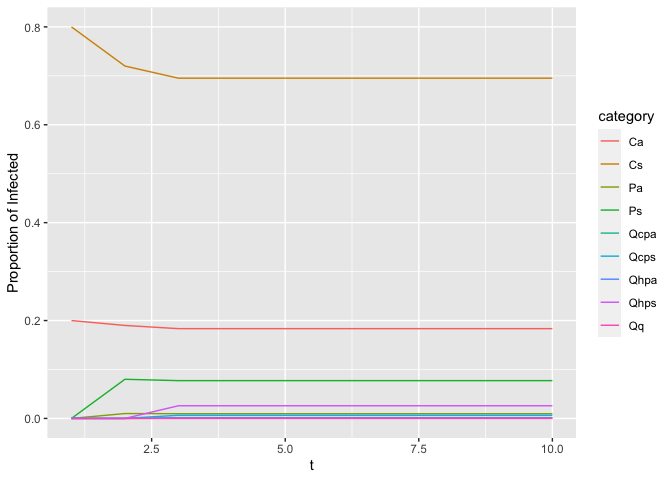
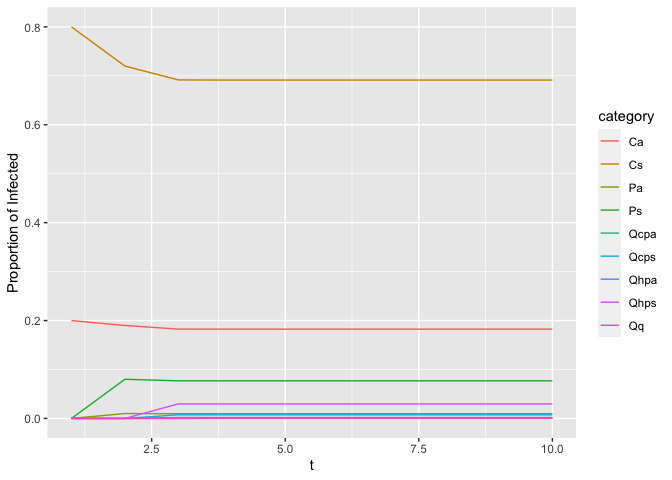
udpate readme

diff --git a/README.md b/README.md
@@ -39,9 +39,9 @@ pqc <- get_pqc_equilibrium(init = c(Ps = 0, Pa = 0, Qcps = 0, Qhps = 0,
                              Ca = 0.2))
 pqc
 #>           Ps           Pa         Qcps         Qhps         Qcpa         Qhpa 
-#> 7.724739e-02 9.655923e-03 6.475167e-03 2.590067e-02 4.046979e-04 1.618792e-03 
+#> 0.0768155690 0.0096019461 0.0074079812 0.0296319249 0.0004629988 0.0018519953 
 #>           Qq           Cs           Ca 
-#> 8.336454e-06 6.952265e-01 1.834625e-01
+#> 0.0004504876 0.6913401207 0.1824369763
 ```
 
 From this, we can calculate the proportion quarantined using the
@@ -49,14 +49,14 @@ From this, we can calculate the proportion quarantined using the
 
 ``` r
 get_prop_quarantined(pqc)
-#> [1] 0.03440766
+#> [1] 0.03980539
 ```
 
 We can then calculate the \(R_{effective}\) under this scenario.
 
 ``` r
 get_r_effective(pqc)
-#> [1] 2.347541
+#> [1] 2.361799
 ```
 
 The function `get_proportions_df()` will generate a data frame with four
@@ -85,7 +85,7 @@ d
 #>  7     1          0           2.5  Qq      
 #>  8     1          0.8         2.5  Cs      
 #>  9     1          0.2         2.5  Ca      
-#> 10     2          0.08        2.43 Ps      
+#> 10     2          0.08        2.46 Ps      
 #> # … with 80 more rows
 ```
 
@@ -109,15 +109,15 @@ r
 #>        t r_effective
 #>    <dbl>       <dbl>
 #>  1     1        2.5 
-#>  2     2        2.43
-#>  3     3        2.35
-#>  4     4        2.35
-#>  5     5        2.35
-#>  6     6        2.35
-#>  7     7        2.35
-#>  8     8        2.35
-#>  9     9        2.35
-#> 10    10        2.35
+#>  2     2        2.46
+#>  3     3        2.36
+#>  4     4        2.36
+#>  5     5        2.36
+#>  6     6        2.36
+#>  7     7        2.36
+#>  8     8        2.36
+#>  9     9        2.36
+#> 10    10        2.36
 ```
 
 ``` r
@@ -142,16 +142,16 @@ d
 #> # A tibble: 42 x 18
 #>    r_effective alpha     R kappa   eta    nu  t_ps  t_pa t_qcs t_qca t_qhs t_qha
 #>          <dbl> <dbl> <dbl> <dbl> <dbl> <dbl> <int> <dbl> <dbl> <dbl> <dbl> <dbl>
-#>  1        2.40   0.2   2.5   0.5   0.5     4     1     3     3     3     3     3
-#>  2        2.41   0.2   2.5   0.5   0.5     4     2     3     3     3     3     3
-#>  3        2.42   0.2   2.5   0.5   0.5     4     3     3     3     3     3     3
-#>  4        2.42   0.2   2.5   0.5   0.5     4     4     3     3     3     3     3
+#>  1        2.41   0.2   2.5   0.5   0.5     4     1     3     3     3     3     3
+#>  2        2.42   0.2   2.5   0.5   0.5     4     2     3     3     3     3     3
+#>  3        2.43   0.2   2.5   0.5   0.5     4     3     3     3     3     3     3
+#>  4        2.43   0.2   2.5   0.5   0.5     4     4     3     3     3     3     3
 #>  5        2.43   0.2   2.5   0.5   0.5     4     5     3     3     3     3     3
 #>  6        2.43   0.2   2.5   0.5   0.5     4     6     3     3     3     3     3
-#>  7        2.43   0.2   2.5   0.5   0.5     4     7     3     3     3     3     3
-#>  8        2.43   0.2   2.5   0.5   0.5     4     8     3     3     3     3     3
-#>  9        2.43   0.2   2.5   0.5   0.5     4     9     3     3     3     3     3
-#> 10        2.43   0.2   2.5   0.5   0.5     4    10     3     3     3     3     3
+#>  7        2.44   0.2   2.5   0.5   0.5     4     7     3     3     3     3     3
+#>  8        2.44   0.2   2.5   0.5   0.5     4     8     3     3     3     3     3
+#>  9        2.44   0.2   2.5   0.5   0.5     4     9     3     3     3     3     3
+#> 10        2.44   0.2   2.5   0.5   0.5     4    10     3     3     3     3     3
 #> # … with 32 more rows, and 6 more variables: t_q <dbl>, omega_c <dbl>,
 #> #   omega_h <dbl>, omega_q <dbl>, rho_s <dbl>, rho_a <dbl>
 ```
